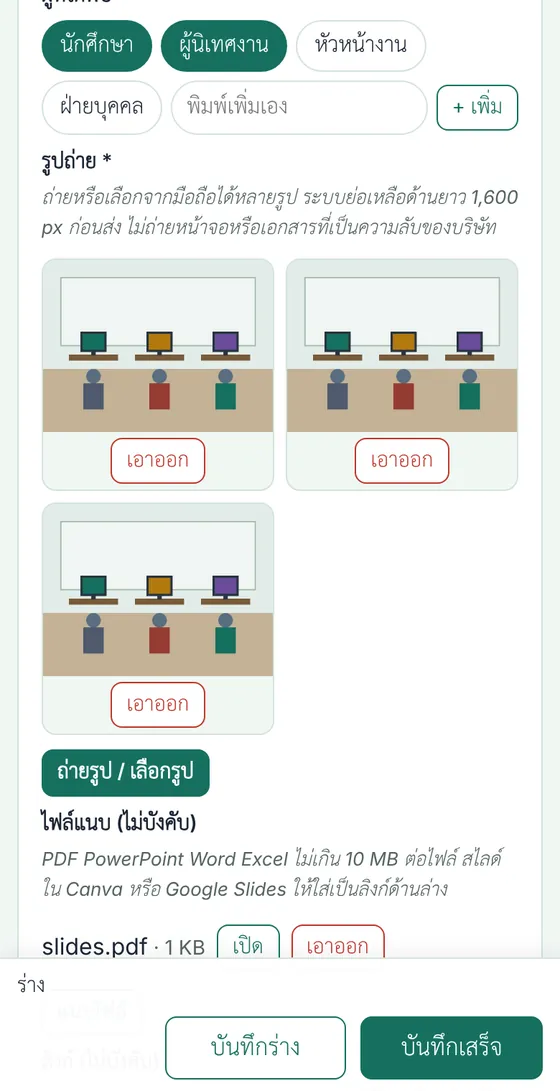
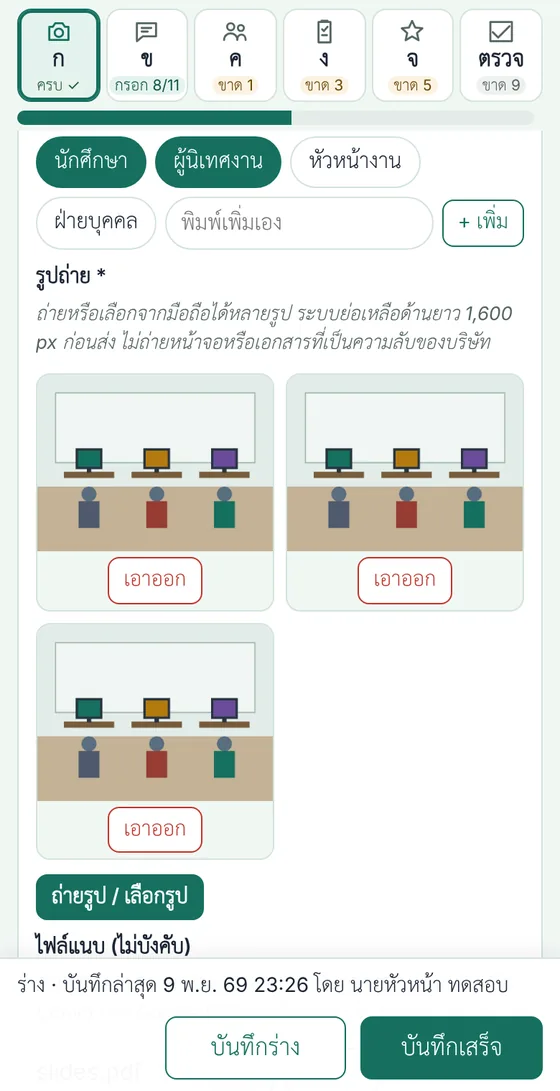
se-coop: คู่มือฉบับ 1.8 แบบบันทึกแบ่งส่วน และบันทึกเป็นคู่ (ระบบ v1.4.1)
- คู่มือการนิเทศ: ปุ่มไอคอน 5 ส่วน + หน้าตรวจก่อนบันทึก สถานะครบ/ขาด
  แถบความคืบหน้า · ไปนิเทศเป็นคู่ กรอกจากเครื่องของท่านใดก็ได้
  กรอกพร้อมกันได้ · กรอบความเห็นภาพรวมของบริษัท · ตารางใครเห็นอะไร
- คู่มืออาจารย์: ขั้นตอนบันทึกผลตามแบบใหม่
- ประกาศการคุ้มครองข้อมูล: อาจารย์ร่วมนิเทศกรอกได้แต่ไม่เห็นเบอร์และอีเมล
- ภาพแบบบันทึกใหม่ t2–t8 (ข้อมูลสมมติ) · ประวัติฉบับ 1.8 · ประกาศ

Claude-Session: https://claude.ai/code/session_01Hdhy4ZQDkcgj21GPA4PsBw

diff --git a/se-coop/teacher/visit.html b/se-coop/teacher/visit.html
@@ -28,7 +28,7 @@
   <div class="prose">
     <div class="now" style="margin-top:0">
       <p class="now-h">แบบบันทึกการนิเทศเปิดใช้ในระบบ SE-COOP แล้ว</p>
-      <p>วันนิเทศ แท็บ <b>"นักศึกษาของฉัน"</b> กด <b>"เข้านิเทศ"</b> ในตารางนิเทศหรือใต้นัด (หลังวันนิเทศปุ่มเป็น "บันทึกผลนิเทศ") ถ่ายรูปจากมือถือได้ทันที กด "บันทึกร่าง" ไว้ก่อนได้ แล้วกด <b>"บันทึกเสร็จ"</b> เมื่อช่องบังคับครบ คะแนนการนิเทศ (ส่วน จ) ใช้คิดผลการเรียนของนักศึกษา</p>
+      <p>วันนิเทศ แท็บ <b>"นักศึกษาของฉัน"</b> กด <b>"เข้านิเทศ"</b> ในตารางนิเทศหรือใต้นัด (หลังวันนิเทศปุ่มเป็น "บันทึกผลนิเทศ") แบบบันทึกแบ่งเป็น 5 ส่วนให้แตะสลับ พร้อมหน้าตรวจก่อนบันทึก ไปเป็นคู่ กรอกจากเครื่องของท่านใดก็ได้ ถ่ายรูปจากมือถือได้ทันที กด "บันทึกร่าง" ไว้ก่อนได้ แล้วกด <b>"บันทึกเสร็จ"</b> เมื่อช่องบังคับครบ คะแนนการนิเทศ (ส่วน จ) ใช้คิดผลการเรียนของนักศึกษา</p>
       <div class="cta"><span data-c="secoop"></span><a class="btn btn-ghost" href="#steps">ดูขั้นตอนพร้อมภาพ</a><a class="btn btn-ghost" href="#questions">คำถามที่ใช้คุย</a></div>
     </div>
 
@@ -63,33 +63,35 @@
     <ol class="steps">
       <li><h3>เปิดแบบบันทึก</h3><div class="when">ภาพที่ 1</div>
         <ul><li>แท็บ "นักศึกษาของฉัน" ปุ่มของนัดเปลี่ยนตามวัน: ก่อนวันนิเทศ "ดูคำถาม/แบบบันทึก" · <b>วันนิเทศ "เข้านิเทศ"</b> (สีทอง ทั้งในตารางนิเทศของฉันและใต้นัด) · หลังวัน "บันทึกผลนิเทศ" · มีร่างแล้ว "บันทึกผลต่อ" · บันทึกเสร็จแล้ว "ดู/แก้บันทึกผล"</li><li>วันก่อนนิเทศ ระบบส่งอีเมลสรุปนัดพรุ่งนี้ถึงท่าน พร้อมแผนที่และเบอร์ติดต่อ · แก้วันนัดได้ที่ปุ่ม "แก้วันนิเทศ" ที่หัวบริษัท</li></ul></li>
-      <li><h3>ตรวจหัวแบบบันทึก</h3><div class="when">ภาพที่ 2</div>
-        <ul><li>หัวแบบบันทึกแสดงนักศึกษา บริษัท ตำแหน่ง ผู้นิเทศงาน และนัด กล่องสีเหลืองบอกว่ายังขาดช่องบังคับใด ระบบนับให้ระหว่างกรอก</li><li>แต่ละส่วน (ก–จ) พับเก็บได้ กดที่หัวส่วน</li></ul></li>
+      <li><h3>แตะไอคอนเพื่อสลับส่วน</h3><div class="when">ภาพที่ 2</div>
+        <ul><li>แบบบันทึกแบ่งเป็นปุ่มไอคอน 6 ปุ่มด้านบน: <b>ก หลักฐาน</b> · <b>ข นักศึกษา</b> · <b>ค พี่เลี้ยง</b> · <b>ง อาจารย์สรุป</b> · <b>จ คะแนน</b> · <b>ตรวจ</b> แตะเพื่อไปส่วนนั้น กรอกส่วนใดก่อนก็ได้ หรือกด "ถัดไป ›" ท้ายแต่ละส่วน</li><li>ใต้ไอคอนบอกสถานะของส่วน: "ครบ ✓" · "ขาด n" (ช่องบังคับที่ยังไม่กรอก) · "กรอก x/y" (ส่วน ข ที่ไม่บังคับ) แถบสีเขียวคือความคืบหน้าของช่องบังคับทั้งหมด</li><li>ตำแหน่ง ผู้นิเทศงาน และลักษณะงานที่นักศึกษากรอก พับไว้ใต้หัวแบบบันทึก</li></ul></li>
       <li><h3>ส่วน ก: วันที่ รูปแบบ รูป ไฟล์ และลิงก์</h3><div class="when">ภาพที่ 3</div>
         <ul><li>วันที่และรูปแบบดึงจากนัด แก้ได้ถ้าวันจริงต่าง แตะ "ผู้ที่ได้พบ"</li><li>กด <b>"ถ่ายรูป / เลือกรูป"</b> เลือกได้หลายรูป ระบบย่อรูปก่อนส่ง ใช้เน็ตมือถือได้ นิเทศ ณ สถานประกอบการต้องมีอย่างน้อย 1 รูป</li><li>สไลด์ที่นักศึกษานำเสนอ แนบเป็นไฟล์ PDF หรือใส่ลิงก์ Canva Google Slides ได้</li><li>ติ๊ก "บริษัทอนุญาตให้ใช้รูปเผยแพร่" เฉพาะเมื่อบริษัทอนุญาต</li></ul></li>
       <li><h3>ส่วน ข: คุยกับนักศึกษา</h3><div class="when">ภาพที่ 4</div>
         <ul><li>คำถามตัวเอียงใต้แต่ละช่องคือสิ่งที่ถาม แตะเลือกได้หลายข้อ ไม่มีในรายการให้พิมพ์ในช่อง "พิมพ์เพิ่มเอง" แล้วกด "+ เพิ่ม"</li><li>รายการเทคโนโลยีมีทั้งซอฟต์แวร์ ฮาร์ดแวร์ PLC IoT และโปรแกรมควบคุมเครื่องจักร</li></ul></li>
       <li><h3>ส่วน ค: คุยกับผู้นิเทศงาน</h3><div class="when">ภาพที่ 5</div>
-        <ul><li>ถามพี่เลี้ยงแล้วแตะคะแนน 7 ด้าน 1–5 ด้านที่พี่เลี้ยงไม่ได้สังเกต แตะ <b>"ไม่ได้สังเกต"</b></li><li>คำถามระดับบริษัท (ทักษะที่ต้องการ ข้อเสนอแนะต่อหลักสูตร การรับรุ่นต่อไป) ไม่บังคับ แต่เป็นข้อมูลสำคัญของการปรับปรุงหลักสูตร</li></ul></li>
+        <ul><li>ถามพี่เลี้ยงแล้วแตะคะแนน 7 ด้าน 1–5 ด้านที่พี่เลี้ยงไม่ได้สังเกต แตะ <b>"ไม่ได้สังเกต"</b> จุดเด่น สิ่งที่ควรพัฒนา และความสนใจรับนักศึกษาคนนี้ เป็นความเห็นรายคน</li><li>กรอบเส้นประ <b>"ความเห็นภาพรวมของบริษัท"</b> (ทักษะที่ต้องการ ข้อเสนอแนะต่อหลักสูตร การรับรุ่นต่อไป ความพึงพอใจ) ไม่ระบุนักศึกษา ไม่บังคับ แต่เป็นข้อมูลสำคัญของการปรับปรุงหลักสูตร และใช้ร่วมกับเพื่อนบริษัทเดียวกันได้</li></ul></li>
       <li><h3>ส่วน ง: อาจารย์สรุป</h3><div class="when">ภาพที่ 6</div>
         <ul><li>งานตรงสาขา ความก้าวหน้าเทียบแผน และสถานะการติดตาม เป็นช่องบังคับ</li><li>"สิ่งที่แนะนำนักศึกษา" เป็นข้อเดียวที่นักศึกษาเห็น เขียนให้นำไปทำได้</li></ul></li>
       <li><h3>ส่วน จ: คะแนนการนิเทศ</h3><div class="when">ภาพที่ 7</div>
         <ul><li>ให้ 5 ข้อ ข้อละ 1–5 ระบบรวมเป็นร้อยละทันที คะแนนนี้คือส่วน "การนิเทศ" ใน<a href="../grading.html">เกณฑ์ S/U</a></li></ul></li>
-      <li><h3>ใช้กับเพื่อน แล้วกดบันทึก</h3><div class="when">ภาพที่ 8</div>
-        <ul><li>นิเทศหลายคนในบริษัทเดียวกัน ติ๊กชื่อเพื่อนท้ายแบบบันทึก ระบบคัดลอกรูป ไฟล์ ลิงก์ วันที่ และความเห็นระดับบริษัทไปเป็นร่างของเพื่อน (เฉพาะช่องที่ว่าง) แล้วจึงกรอกส่วนเฉพาะตัวของแต่ละคน</li><li>กด <b>"บันทึกร่าง"</b> ได้ทุกเมื่อ ระบบบันทึกร่างให้อัตโนมัติทุก 40 วินาทีด้วย กด <b>"บันทึกเสร็จ"</b> เมื่อช่องบังคับครบ หลังจากนั้นแก้ได้จนปิดภาค</li></ul></li>
+      <li><h3>ตรวจ ใช้กับเพื่อน แล้วกดบันทึก</h3><div class="when">ภาพที่ 8</div>
+        <ul><li>ปุ่ม <b>"ตรวจ"</b> สรุปสิ่งที่กรอกแล้วของทุกส่วน ช่องบังคับที่ยังขาดเป็นสีแดง แตะเพื่อไปกรอก ก่อนกด "บันทึกเสร็จ"</li><li>นิเทศหลายคนในบริษัทเดียวกัน ติ๊กชื่อเพื่อนในหน้าตรวจ ระบบคัดลอกรูป ไฟล์ ลิงก์ วันที่ และความเห็นภาพรวมของบริษัทไปเป็นร่างของเพื่อน (เฉพาะช่องที่ว่าง) แล้วจึงกรอกส่วนเฉพาะตัวของแต่ละคน</li><li>กด <b>"บันทึกร่าง"</b> ได้ทุกเมื่อ ระบบบันทึกร่างให้อัตโนมัติทุก 40 วินาทีด้วย กด <b>"บันทึกเสร็จ"</b> เมื่อช่องบังคับครบ หลังจากนั้นแก้ได้จนปิดภาค</li></ul></li>
+      <li><h3>ไปนิเทศเป็นคู่</h3><div class="when">อาจารย์นิเทศและอาจารย์ร่วมนิเทศ</div>
+        <ul><li>อาจารย์ท่านใดก็ได้กรอกแบบบันทึกจากมือถือหรือเครื่องของตนเอง อาจารย์ร่วมเห็นปุ่ม "เข้านิเทศ" ในตารางนิเทศของตนในวันนิเทศ</li><li>กรอกพร้อมกันได้ เช่น ท่านหนึ่งถ่ายรูปและกรอกส่วน ก อีกท่านกรอกส่วน ค และ จ ระบบบันทึกเฉพาะช่องที่แต่ละท่านแก้ ไม่ทับข้อมูลของอีกท่าน กด <b>"⟳ ดึงข้อมูลล่าสุด"</b> เพื่อดูสิ่งที่อีกท่านบันทึกแล้ว ถ้าแก้ช่องเดียวกัน ระบบใช้ค่าที่บันทึกทีหลังและแจ้งเตือน</li><li>อาจารย์ร่วมไม่เห็นเบอร์โทรและอีเมลของนักศึกษาและผู้นิเทศงานในแบบบันทึก (ตามประกาศการคุ้มครองข้อมูลส่วนบุคคล) ส่วนการแก้วันนัดทำได้เฉพาะอาจารย์นิเทศ</li></ul></li>
       <li><h3>ดูผลการนิเทศของทุกคน</h3><div class="when">ภาพที่ 9–10</div>
         <ul><li>แท็บ <b>"ผลการนิเทศ"</b> อาจารย์ทุกท่านดูได้ กรองรายการที่ยังไม่บันทึก ต้องติดตาม หรือผลงานเด่น กดที่แถวเพื่อดูรายละเอียด รูป และไฟล์</li><li>หน้านี้ไม่มีเบอร์โทร อีเมล และบันทึกลับ ผู้ประสานงานส่งออกเป็น Excel สำหรับรายงาน AUN-QA</li></ul></li>
     </ol>
     <p class="small muted">ภาพตัวอย่างใช้ข้อมูลและรูปสมมติ เลื่อนดูภาพถัดไปได้</p>
     <div class="shots" tabindex="0" aria-label="ภาพหน้าจอตัวอย่างแบบบันทึกการนิเทศ">
       <figure><img src="../assets/img/guide/t1-mine.webp" width="560" height="1091" loading="lazy" alt="วันนิเทศ ตารางนิเทศของฉันแสดงปุ่มเข้านิเทศสีทองของนักศึกษาแต่ละคน"><figcaption><b>1</b> กด "เข้านิเทศ"</figcaption></figure>
-      <figure><img src="../assets/img/guide/t2-record.webp" width="560" height="1091" loading="lazy" alt="หัวแบบบันทึก แสดงนักศึกษา บริษัท ผู้นิเทศงาน นัด และกล่องช่องที่ยังขาด"><figcaption><b>2</b> หัวแบบบันทึกบอกสิ่งที่ยังขาด</figcaption></figure>
+      <figure><img src="../assets/img/guide/t2-record.webp" width="560" height="1091" loading="lazy" alt="หัวแบบบันทึก และปุ่มไอคอน 6 ส่วน ก ข ค ง จ ตรวจ แต่ละปุ่มบอกว่าครบหรือขาดกี่ช่อง พร้อมแถบความคืบหน้า"><figcaption><b>2</b> แตะไอคอนเพื่อสลับส่วน</figcaption></figure>
       <figure><img src="../assets/img/guide/t3-photos.webp" width="560" height="1091" loading="lazy" alt="ส่วน ก รูปถ่ายหลายรูป ปุ่มถ่ายรูปหรือเลือกรูป ไฟล์แนบ และลิงก์"><figcaption><b>3</b> ถ่ายรูป แนบไฟล์ ใส่ลิงก์</figcaption></figure>
       <figure><img src="../assets/img/guide/t4-student.webp" width="560" height="1091" loading="lazy" alt="ส่วน ข คำถามคุยกับนักศึกษา แตะเลือกบทบาทและเทคโนโลยี"><figcaption><b>4</b> แตะเลือกตามคำถาม</figcaption></figure>
       <figure><img src="../assets/img/guide/t5-mentor.webp" width="560" height="1091" loading="lazy" alt="ส่วน ค คะแนน 1 ถึง 5 และปุ่มไม่ได้สังเกต สำหรับความเห็นผู้นิเทศงาน"><figcaption><b>5</b> แตะคะแนนจากพี่เลี้ยง</figcaption></figure>
       <figure><img src="../assets/img/guide/t6-summary.webp" width="560" height="1091" loading="lazy" alt="ส่วน ง อาจารย์สรุป งานตรงสาขา ความก้าวหน้า สถานะการติดตาม และสิ่งที่แนะนำนักศึกษา"><figcaption><b>6</b> อาจารย์สรุป</figcaption></figure>
       <figure><img src="../assets/img/guide/t7-score.webp" width="560" height="1091" loading="lazy" alt="ส่วน จ คะแนนการนิเทศ 5 ข้อ ระบบรวมเป็นร้อยละ"><figcaption><b>7</b> คะแนนการนิเทศ 5 ข้อ</figcaption></figure>
-      <figure><img src="../assets/img/guide/t8-peers.webp" width="560" height="1091" loading="lazy" alt="ติ๊กชื่อเพื่อนที่นิเทศพร้อมกัน และแถบปุ่มบันทึกด้านล่าง"><figcaption><b>8</b> ใช้กับเพื่อน แล้วบันทึก</figcaption></figure>
+      <figure><img src="../assets/img/guide/t8-peers.webp" width="560" height="1091" loading="lazy" alt="หน้าตรวจก่อนบันทึก สรุปสิ่งที่กรอกของทุกส่วน ช่องที่ยังขาดเป็นสีแดง"><figcaption><b>8</b> ตรวจก่อนบันทึก</figcaption></figure>
       <figure><img src="../assets/img/guide/t9-results.webp" width="560" height="1091" loading="lazy" alt="แท็บผลการนิเทศ จำนวนที่บันทึกแล้ว และรายการนักศึกษา"><figcaption><b>9</b> แท็บผลการนิเทศ</figcaption></figure>
       <figure><img src="../assets/img/guide/t10-detail.webp" width="560" height="1091" loading="lazy" alt="รายละเอียดผลการนิเทศของนักศึกษาหนึ่งคน"><figcaption><b>10</b> รายละเอียดรายคน</figcaption></figure>
     </div>
@@ -151,12 +153,12 @@
 
     <h2 id="who">ใครเห็นอะไร</h2>
     <div class="table"><table>
-      <thead><tr><th>ข้อมูล</th><th>อาจารย์นิเทศของนักศึกษาคนนั้น</th><th>อาจารย์ทุกท่าน (แท็บผลการนิเทศ)</th><th>ผู้ประสานงาน</th><th>นักศึกษา</th></tr></thead>
+      <thead><tr><th>ข้อมูล</th><th>อาจารย์นิเทศ และอาจารย์ร่วมนิเทศของนัดนั้น</th><th>อาจารย์ทุกท่าน (แท็บผลการนิเทศ)</th><th>ผู้ประสานงาน</th><th>นักศึกษา</th></tr></thead>
       <tbody>
         <tr><td>บันทึกการนิเทศ คะแนน เทคโนโลยี ข้อเสนอแนะ</td><td>กรอกและแก้</td><td>ดูได้</td><td>ดู แก้ ส่งออก</td><td>เฉพาะ "สิ่งที่แนะนำนักศึกษา"</td></tr>
         <tr><td>รูป ไฟล์ ลิงก์</td><td>เพิ่มและเอาออก</td><td>ดูได้</td><td>ดูได้</td><td>ไม่เห็น</td></tr>
-        <tr><td>บันทึกถึงผู้ประสานงาน (ลับ)</td><td>เขียนได้</td><td>ไม่เห็น</td><td>ดูได้</td><td>ไม่เห็น</td></tr>
-        <tr><td>เบอร์โทร LINE อีเมล</td><td>เห็น</td><td>ไม่เห็น</td><td>เห็น</td><td>ของตนเอง</td></tr>
+        <tr><td>บันทึกถึงผู้ประสานงาน (ลับ)</td><td>เขียนได้ (อาจารย์ที่บันทึกการนิเทศนั้นเห็น)</td><td>ไม่เห็น</td><td>ดูได้</td><td>ไม่เห็น</td></tr>
+        <tr><td>เบอร์โทร LINE อีเมล</td><td>อาจารย์นิเทศเห็น · อาจารย์ร่วมนิเทศไม่เห็น</td><td>ไม่เห็น</td><td>เห็น</td><td>ของตนเอง</td></tr>
       </tbody>
     </table></div>
     <p class="small muted">รูปและไฟล์เก็บใน Google Drive ของหลักสูตร แยกโฟลเดอร์ตามนักศึกษา ไม่เปิดลิงก์สาธารณะ อาจารย์ดูผ่านระบบได้โดยไม่ต้องมีสิทธิ์ Drive ใช้เผยแพร่ได้เฉพาะรูปที่ติ๊กว่าบริษัทอนุญาต</p>

diff --git a/se-coop/teacher/index.html b/se-coop/teacher/index.html
@@ -53,7 +53,7 @@
       <li><h3>เอกสารส่งคณะ</h3><div class="when">ผู้ประสานงานส่งคณะ 12 พ.ย. 2569</div>
         <ul><li>ระบบสร้างแผนการนิเทศตามตารางของคณะ (Excel) แบบเสนองบประมาณการนิเทศ (Word) และตารางแนบท้ายคำสั่งแต่งตั้ง จากข้อมูลในระบบโดยตรง ไม่ต้องกรอก Google Form</li><li>งบประมาณคิดจากการนิเทศ ณ สถานประกอบการ: ในเขตอำเภอเมืองเชียงใหม่เบิกค่ารถโดยสาร นอกเขตเบิกค่าชดเชยน้ำมันตามระยะทาง ผู้ประสานงานจะขอหมายเลขทะเบียนรถจากอาจารย์ที่ขับรถไปนิเทศนอกเขต</li><li>เอกสารมีชื่ออาจารย์ นักศึกษา บริษัท และวันนิเทศ ไม่มีเบอร์หรืออีเมล</li></ul></li>
       <li><h3>บันทึกผลการนิเทศ</h3><div class="when">ระหว่างนิเทศหรือภายใน 3 วันหลังนิเทศ · ภาพที่ 5–7</div>
-        <ul><li>วันนิเทศ ปุ่มใต้นัดและในตารางนิเทศเป็น <b>"เข้านิเทศ"</b> (สีทอง) กดเพื่อดูคำถามและกรอกแบบบันทึกระหว่างคุย หรือมากรอกภายหลัง (ภาพที่ 5) ก่อนวันนิเทศปุ่มเป็น "ดูคำถาม/แบบบันทึก" หลังวันเป็น "บันทึกผลนิเทศ" ผู้ประสานงานเห็นว่าอาจารย์ท่านใดส่งบันทึกแล้ว</li><li>แบบบันทึกมี 5 ส่วน: ก รูป ไฟล์ ลิงก์ · ข คุยกับนักศึกษา · ค คุยกับผู้นิเทศงาน (แตะคะแนน 7 ด้าน) · ง อาจารย์สรุป · จ คะแนนการนิเทศ 5 ข้อ</li><li>ส่วนใหญ่แตะเลือก ไม่มีในรายการพิมพ์เพิ่มเองได้ กด "บันทึกร่าง" ไว้ก่อนได้ กด "บันทึกเสร็จ" เมื่อช่องบังคับครบ แก้ได้จนปิดภาค</li><li>นิเทศหลายคนบริษัทเดียวกัน ติ๊กชื่อเพื่อนท้ายแบบบันทึก รูปและความเห็นของบริษัทจะใช้ร่วมกัน</li><li>ขั้นตอนเต็ม คำถามที่ใช้คุย และใครเห็นอะไร อยู่ใน<a href="visit.html">คู่มือการนิเทศและแบบบันทึก</a></li></ul></li>
+        <ul><li>วันนิเทศ ปุ่มใต้นัดและในตารางนิเทศเป็น <b>"เข้านิเทศ"</b> (สีทอง) กดเพื่อดูคำถามและกรอกแบบบันทึกระหว่างคุย หรือมากรอกภายหลัง (ภาพที่ 5) ก่อนวันนิเทศปุ่มเป็น "ดูคำถาม/แบบบันทึก" หลังวันเป็น "บันทึกผลนิเทศ" ผู้ประสานงานเห็นว่าอาจารย์ท่านใดส่งบันทึกแล้ว</li><li>แบบบันทึกมีปุ่มไอคอน 5 ส่วนด้านบนให้แตะสลับ แต่ละปุ่มบอกว่าครบหรือขาดกี่ช่อง และปุ่ม "ตรวจ" สรุปสิ่งที่กรอกแล้วก่อนกดบันทึก ไปเป็นคู่ อาจารย์ท่านใดก็ได้กรอกจากเครื่องของตนเอง กรอกพร้อมกันได้ (ภาพที่ 6)</li><li>5 ส่วน: ก รูป ไฟล์ ลิงก์ · ข คุยกับนักศึกษา · ค คุยกับผู้นิเทศงาน (แตะคะแนน 7 ด้าน) · ง อาจารย์สรุป · จ คะแนนการนิเทศ 5 ข้อ</li><li>ส่วนใหญ่แตะเลือก ไม่มีในรายการพิมพ์เพิ่มเองได้ กด "บันทึกร่าง" ไว้ก่อนได้ กด "บันทึกเสร็จ" เมื่อช่องบังคับครบ แก้ได้จนปิดภาค</li><li>นิเทศหลายคนบริษัทเดียวกัน ติ๊กชื่อเพื่อนในหน้า "ตรวจ" รูปและความเห็นภาพรวมของบริษัทจะใช้ร่วมกัน</li><li>ขั้นตอนเต็ม คำถามที่ใช้คุย และใครเห็นอะไร อยู่ใน<a href="visit.html">คู่มือการนิเทศและแบบบันทึก</a></li></ul></li>
       <li><h3>ดูผลการนิเทศของทุกคน</h3><div class="when">แท็บ "ผลการนิเทศ"</div>
         <ul><li>อาจารย์ทุกท่านดูผลการนิเทศ รูป และไฟล์ของนักศึกษาทุกคนได้ เพื่อเรียนรู้จากกันและปรับปรุงหลักสูตร (ไม่มีข้อมูลติดต่อและบันทึกลับ)</li><li>ผู้ประสานงานส่งออกผลการนิเทศเป็น Excel สำหรับรายงาน AUN-QA</li></ul></li>
     </ol>

diff --git a/se-coop/help/index.html b/se-coop/help/index.html
@@ -35,7 +35,7 @@
     <h2 id="history">ประวัติการปรับปรุงพอร์ทัล</h2>
     <div class="table"><table>
       <thead><tr><th scope="col">ฉบับ</th><th scope="col">วันที่</th><th scope="col">สาระ</th></tr></thead>
-      <tbody><tr><td>1.7</td><td>9 พ.ย. 2569</td><td>คู่มืออาจารย์: รับนิเทศแล้วกำหนดวันทั้ง 2 ครั้งทันที ยกเลิกรับนิเทศ ตารางนิเทศของฉัน (รายการและปฏิทิน) คำเตือนนัดชน ใช้วันที่นักศึกษาเสนอ อีเมลเตือนล่วงหน้า 1 วัน ปุ่ม "เข้านิเทศ" พร้อมภาพใหม่ 5 ภาพ · คู่มือการนิเทศ: เข้านิเทศตามวัน · คู่มือนักศึกษา: เห็นวันนิเทศทั้ง 2 ครั้ง ป้าย "แผน อาจเปลี่ยน" ขอเลื่อนพร้อมเสนอวัน และอีเมลเตือนล่วงหน้า</td></tr><tr><td>1.6</td><td>9 พ.ย. 2569</td><td>คู่มืออาจารย์: ปุ่ม "รับนิเทศ" ใช้ได้เมื่อนักศึกษากรอกข้อมูลครบ เบอร์โทรและ LINE ข้างชื่อ ปุ่มรีเฟรช และอีเมลที่ระบบส่ง · คู่มือนักศึกษา: อีเมลแจ้งเมื่อมีอาจารย์รับนิเทศ และการแจ้งอาจารย์เมื่อยืนยันนัดหรือแก้ข้อมูล</td></tr><tr><td>1.5</td><td>9 พ.ย. 2569</td><td>คู่มือการนิเทศและแบบบันทึกสำหรับอาจารย์ (คำถามที่ใช้คุย ขั้นตอนพร้อมภาพ) · หน้าเกณฑ์การวัดผล S/U · คู่มือนักศึกษาเพิ่มการเตรียมรับนิเทศ คำแนะนำหลังนิเทศ และทำอย่างไรจึงผ่าน · ปรับประกาศการคุ้มครองข้อมูลส่วนบุคคลเรื่องบันทึกการนิเทศและรูปถ่าย</td></tr>
+      <tbody><tr><td>1.8</td><td>9 พ.ย. 2569</td><td>คู่มือการนิเทศ: แบบบันทึกแบ่งเป็นปุ่มไอคอน 5 ส่วนและหน้าตรวจก่อนบันทึก พร้อมสถานะครบหรือขาดของแต่ละส่วน · ไปนิเทศเป็นคู่ กรอกจากเครื่องของท่านใดก็ได้ · ความเห็นภาพรวมของบริษัทแยกจากความเห็นรายคน · ภาพแบบบันทึกใหม่ 7 ภาพ</td></tr><tr><td>1.7</td><td>9 พ.ย. 2569</td><td>คู่มืออาจารย์: รับนิเทศแล้วกำหนดวันทั้ง 2 ครั้งทันที ยกเลิกรับนิเทศ ตารางนิเทศของฉัน (รายการและปฏิทิน) คำเตือนนัดชน ใช้วันที่นักศึกษาเสนอ อีเมลเตือนล่วงหน้า 1 วัน ปุ่ม "เข้านิเทศ" พร้อมภาพใหม่ 5 ภาพ · คู่มือการนิเทศ: เข้านิเทศตามวัน · คู่มือนักศึกษา: เห็นวันนิเทศทั้ง 2 ครั้ง ป้าย "แผน อาจเปลี่ยน" ขอเลื่อนพร้อมเสนอวัน และอีเมลเตือนล่วงหน้า</td></tr><tr><td>1.6</td><td>9 พ.ย. 2569</td><td>คู่มืออาจารย์: ปุ่ม "รับนิเทศ" ใช้ได้เมื่อนักศึกษากรอกข้อมูลครบ เบอร์โทรและ LINE ข้างชื่อ ปุ่มรีเฟรช และอีเมลที่ระบบส่ง · คู่มือนักศึกษา: อีเมลแจ้งเมื่อมีอาจารย์รับนิเทศ และการแจ้งอาจารย์เมื่อยืนยันนัดหรือแก้ข้อมูล</td></tr><tr><td>1.5</td><td>9 พ.ย. 2569</td><td>คู่มือการนิเทศและแบบบันทึกสำหรับอาจารย์ (คำถามที่ใช้คุย ขั้นตอนพร้อมภาพ) · หน้าเกณฑ์การวัดผล S/U · คู่มือนักศึกษาเพิ่มการเตรียมรับนิเทศ คำแนะนำหลังนิเทศ และทำอย่างไรจึงผ่าน · ปรับประกาศการคุ้มครองข้อมูลส่วนบุคคลเรื่องบันทึกการนิเทศและรูปถ่าย</td></tr>
         <tr><td>1.0</td><td>8 พ.ย. 2569</td><td>เปิดพอร์ทัล SE-COOP แทนหน้าแผนการนิเทศเดิม: หน้าแรก หน้าตามบทบาท คำถามพบบ่อย และประกาศการคุ้มครองข้อมูลส่วนบุคคล</td></tr></tbody>
     </table></div>
   </div>

diff --git a/se-coop/config.js b/se-coop/config.js
@@ -7,7 +7,7 @@
 // ===================================================================================
 window.SECOOP = {
   updated: '2026-11-09',
-  version: 'ฉบับ 1.7',
+  version: 'ฉบับ 1.8',
   term: {
     label: '2/2569',
     course: 'ENGSE301 สหกิจศึกษา',
@@ -31,6 +31,7 @@ window.SECOOP = {
 
   // ---------------- ประกาศ ----------------
   announcements: [
+    { date: '2026-11-09', important: false, roles: ['teacher'], title: 'แบบบันทึกการนิเทศแบ่งเป็นส่วน แตะไอคอนเพื่อสลับ และไปเป็นคู่กรอกได้ทั้งสองท่าน', body: 'แบบบันทึกมีปุ่มไอคอน ก หลักฐาน ข นักศึกษา ค พี่เลี้ยง ง อาจารย์สรุป จ คะแนน และ ตรวจ แต่ละปุ่มบอกว่าครบหรือขาดกี่ช่อง หน้าตรวจสรุปสิ่งที่กรอกแล้วก่อนกดบันทึก ไปนิเทศเป็นคู่ อาจารย์นิเทศหรืออาจารย์ร่วมนิเทศกรอกจากเครื่องของตนเองได้ กรอกพร้อมกันได้โดยไม่ทับข้อมูลของอีกท่าน' },
     { date: '2026-11-09', important: true, roles: ['teacher'], title: 'กำหนดวันนิเทศทั้ง 2 ครั้งได้ในหน้าเดียว และมีตารางนิเทศของฉัน', body: 'กด "รับนิเทศ" แล้วยืนยัน ระบบเปิดฟอร์มกำหนดวันครั้งที่ 1 และ 2 ให้ทันที ครั้งที่ 2 กรอกตามแผนส่งคณะไว้ก่อน เปลี่ยนภายหลังได้ แท็บ "นักศึกษาของฉัน" มีตารางนิเทศเรียงตามวันและแบบปฏิทิน เตือนเมื่อนัดชนกันหรือต่างจังหวัด ระบบส่งอีเมลเตือนนัดล่วงหน้า 1 วัน และวันนิเทศกด "เข้านิเทศ" เพื่อกรอกแบบบันทึก' },
     { date: '2026-11-09', important: true, roles: ['teacher'], title: 'เปิดแบบบันทึกการนิเทศบนมือถือ และแท็บผลการนิเทศ', body: 'แท็บ "นักศึกษาของฉัน" กด "บันทึกผลนิเทศ" ใต้นัด ถ่ายรูปจากมือถือได้ทันที แบบบันทึกมีคำถามที่ใช้คุยกับนักศึกษาและพี่เลี้ยง ส่วนใหญ่แตะเลือก ส่วน จ เป็นคะแนนการนิเทศ 5 ข้อที่ใช้คิดผล S/U กรอกให้เสร็จภายใน 3 วันหลังนิเทศ อาจารย์ทุกท่านดูผลของทุกคนได้ที่แท็บ "ผลการนิเทศ" อ่านคู่มือการนิเทศก่อนรอบนิเทศครั้งที่ 1 (1 ธ.ค.)' },
     { date: '2026-11-09', important: true, roles: ['student'], title: 'ประกาศเกณฑ์การวัดผล S/U และสิ่งที่ต้องทำจึงผ่าน', body: 'ผ่าน (S) เมื่อทำกิจกรรมบังคับครบ ทุกส่วนได้ไม่น้อยกว่าร้อยละ 50 และรวมไม่น้อยกว่าร้อยละ 60 คะแนนมาจากผลประเมินของสถานประกอบการ 40% การนิเทศ 20–30% และรายงานกับการนำเสนอ 30–40% ตอนนิเทศให้เตรียมเล่างาน 10 นาที หน้าแรกของ SE-COOP มีเช็กลิสต์ว่าทำอะไรครบแล้ว และหลังนิเทศจะเห็นคำแนะนำจากอาจารย์' },

diff --git a/se-coop/help/privacy.html b/se-coop/help/privacy.html
@@ -50,8 +50,8 @@
         <tr><td>เบอร์ อีเมล และช่องทางติดต่อของนักศึกษา</td><td>เห็น แก้ ลบได้</td><td>เห็น</td><td>เห็น</td><td>ไม่เห็น</td></tr>
         <tr><td>ข้อมูลผู้นิเทศงาน</td><td>เห็น แก้ได้</td><td>เห็น</td><td>เห็น</td><td>ไม่เห็น</td></tr>
         <tr><td>ตำแหน่งงาน ลักษณะงาน ช่วงที่สะดวกให้นิเทศ</td><td>เห็น แก้ได้</td><td>เห็น</td><td>เห็น</td><td>ไม่เห็น</td></tr>
-        <tr><td>บันทึกการนิเทศ คะแนน รูป ไฟล์ และลิงก์</td><td>เห็นเฉพาะ "สิ่งที่แนะนำนักศึกษา" คะแนนเห็นเมื่อประกาศผล</td><td>เห็น แก้ได้</td><td>เห็น แก้ได้</td><td>เห็น (แท็บผลการนิเทศ) เพื่อพัฒนาการนิเทศและหลักสูตร</td></tr>
-        <tr><td>บันทึกถึงผู้ประสานงาน (ลับ)</td><td>ไม่เห็น</td><td>ผู้เขียนเห็น</td><td>เห็น</td><td>ไม่เห็น</td></tr>
+        <tr><td>บันทึกการนิเทศ คะแนน รูป ไฟล์ และลิงก์</td><td>เห็นเฉพาะ "สิ่งที่แนะนำนักศึกษา" คะแนนเห็นเมื่อประกาศผล</td><td>เห็น แก้ได้ (อาจารย์ร่วมนิเทศของนัดนั้นกรอกได้ด้วย แต่ไม่เห็นเบอร์และอีเมล)</td><td>เห็น แก้ได้</td><td>เห็น (แท็บผลการนิเทศ) เพื่อพัฒนาการนิเทศและหลักสูตร</td></tr>
+        <tr><td>บันทึกถึงผู้ประสานงาน (ลับ)</td><td>ไม่เห็น</td><td>อาจารย์ที่บันทึกการนิเทศนั้นเห็น</td><td>เห็น</td><td>ไม่เห็น</td></tr>
         <tr><td>ตารางแนบท้ายคำสั่งที่ส่งคณะ</td><td colspan="4">มีชื่อ รหัส สถานประกอบการ จังหวัด อาจารย์ และวันนิเทศ ไม่มีเบอร์หรืออีเมลของใคร</td></tr>
       </tbody>
       <caption>ผู้ประสานงานและผู้ดูแลระบบคือผู้มีบทบาท admin ในระบบ พอร์ทัลนี้เป็นเว็บสาธารณะจึงไม่แสดงเบอร์โทรหรือข้อมูลรายคนของใครเลย</caption>
